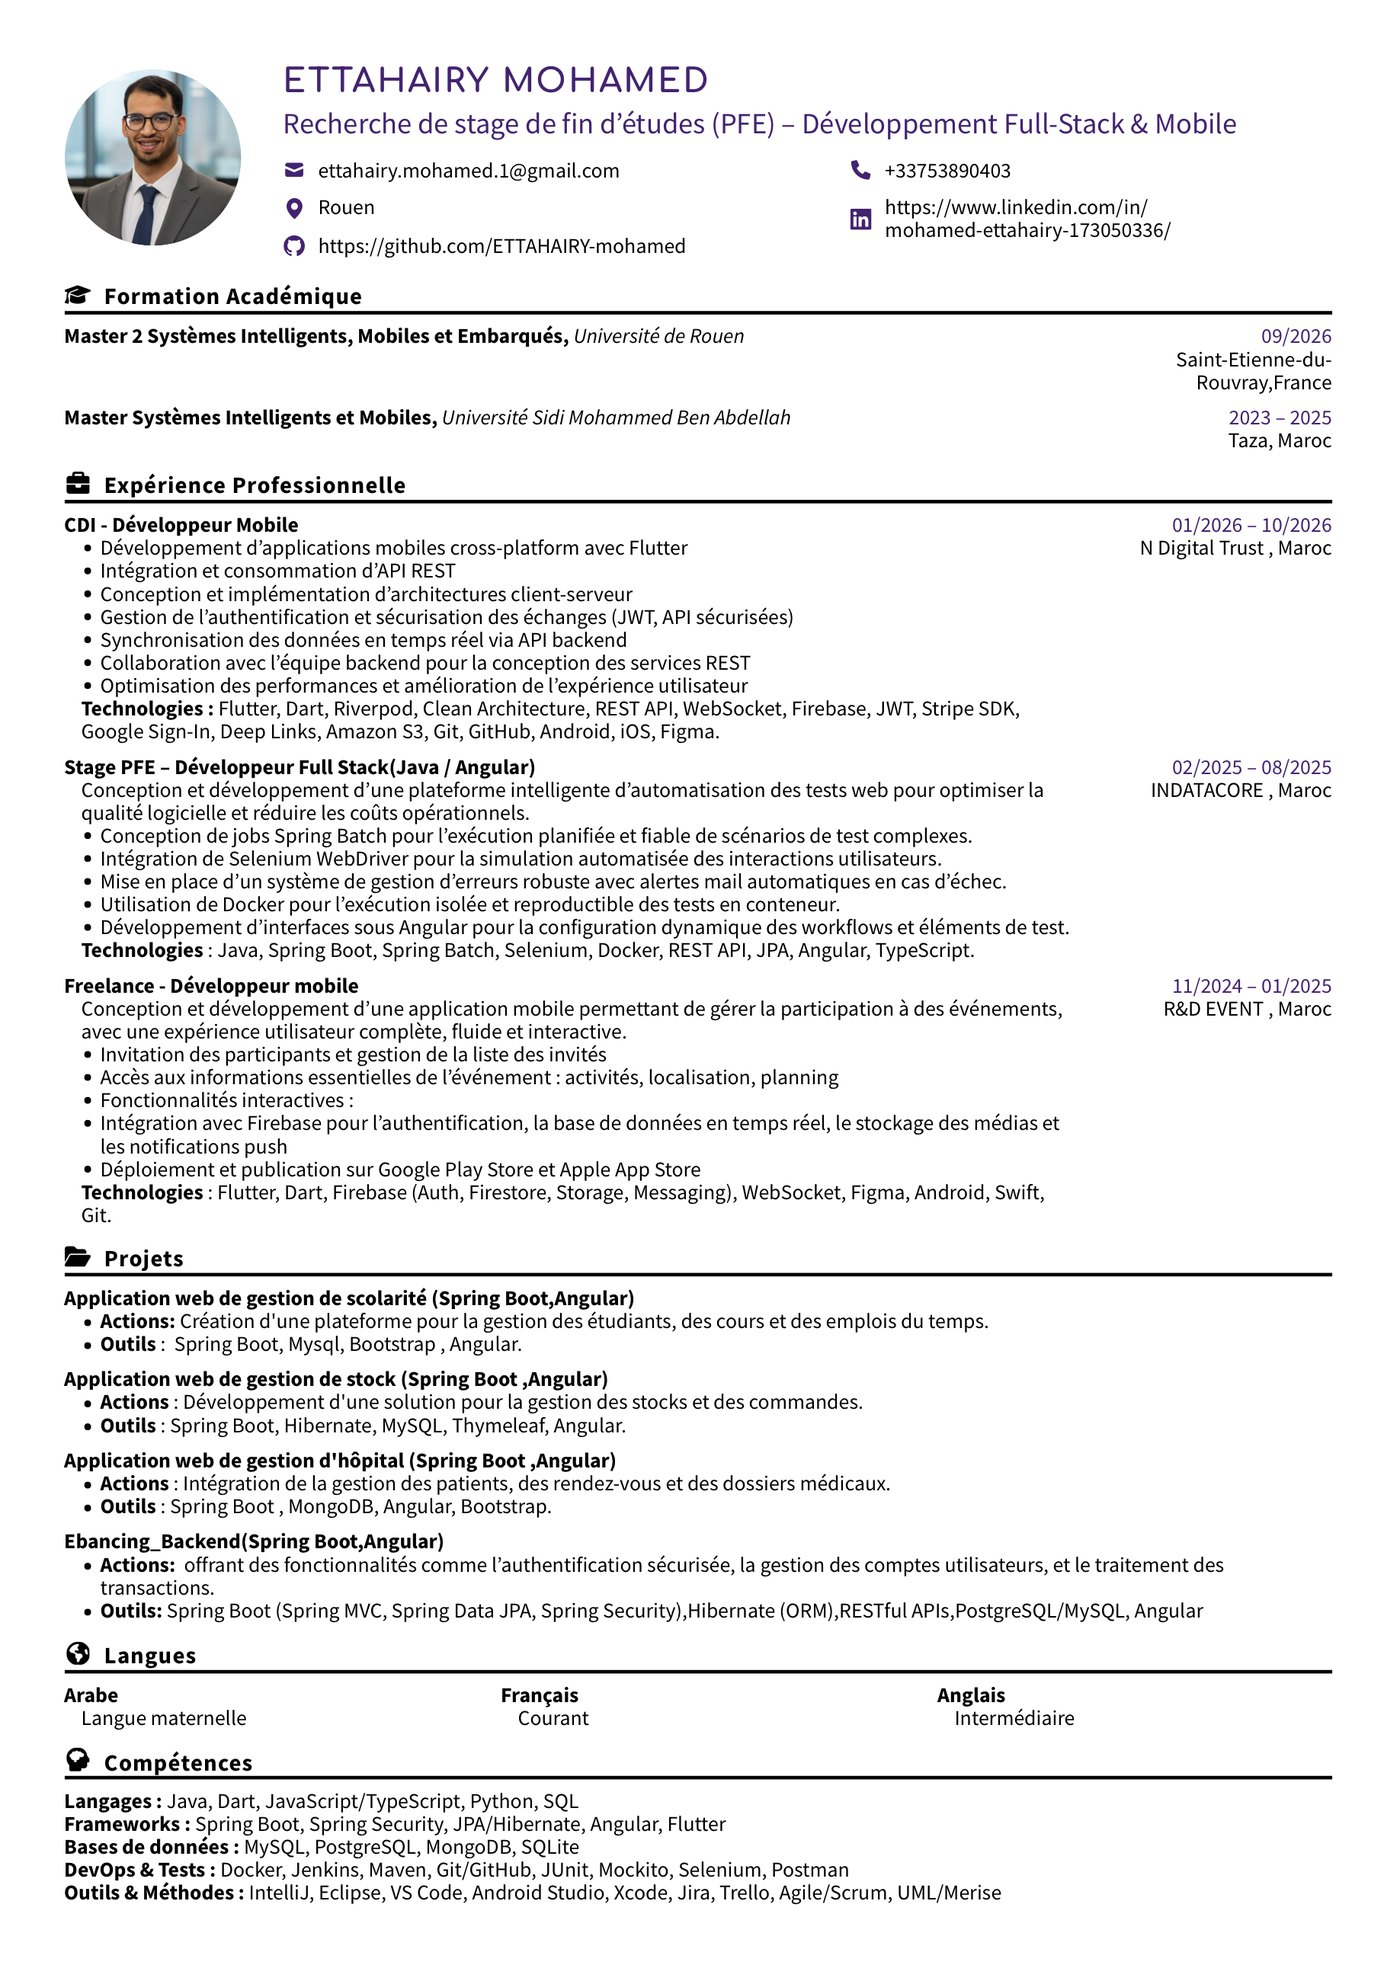
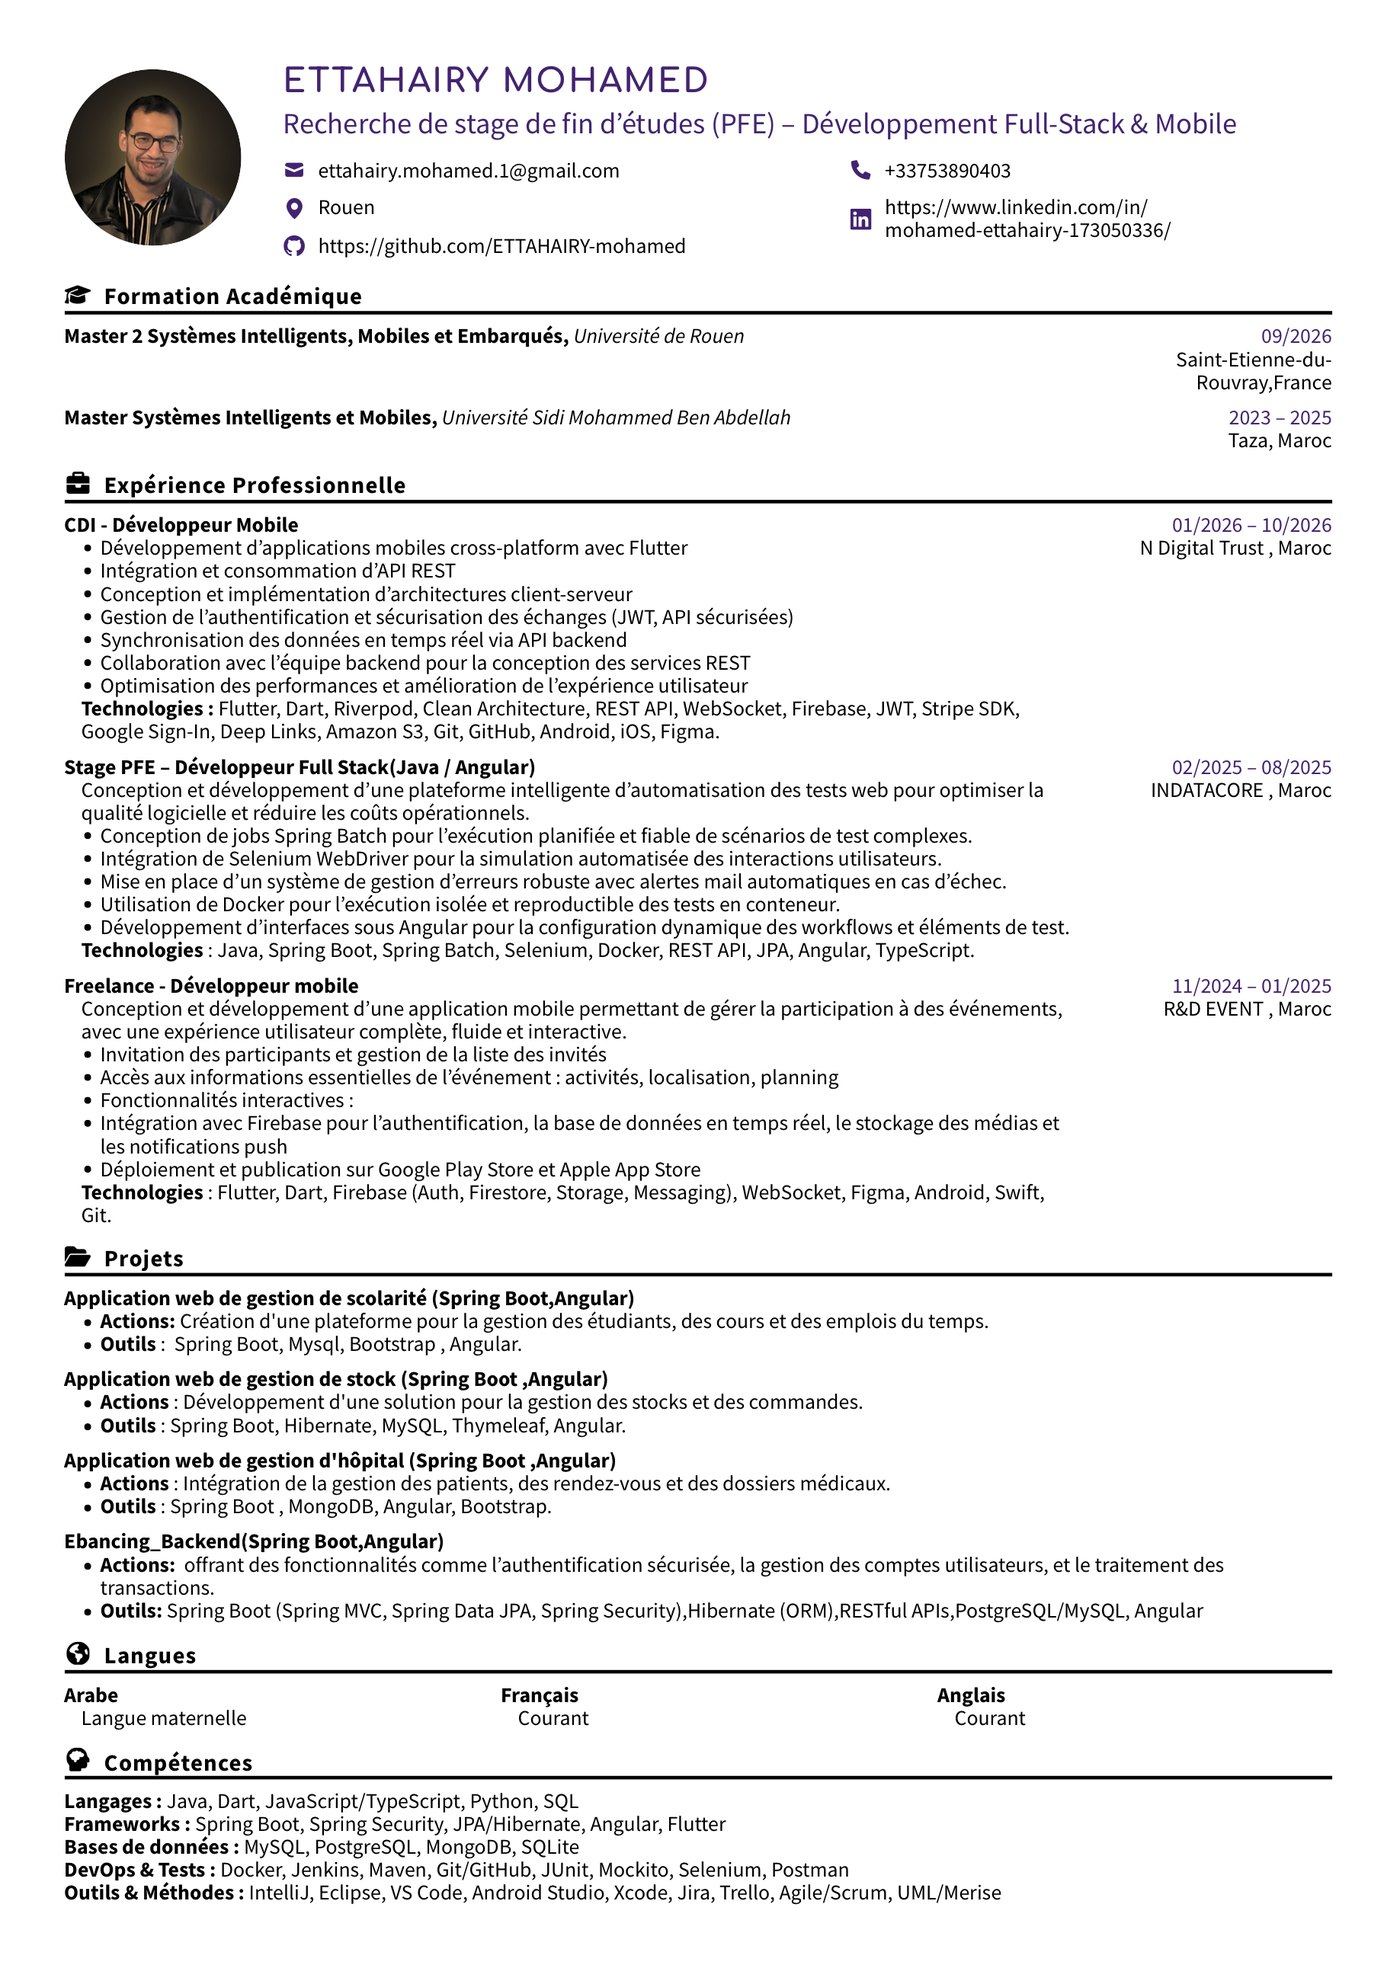
CV mis à jour (nouvelle photo, anglais courant)
- public/cv.pdf : nouvelle photo, niveau d'anglais « Courant »
  (les liens cliquables du PDF sont conservés)
- public/cv-preview.jpg : aperçu régénéré à partir du nouveau CV
- Compétences : Anglais passe de « Intermédiaire » à « Courant » (barre 90 %)

Changed region(s): [[0.0307, 0.0308, 0.1843, 0.1232], [0.6757, 0.8622, 0.7679, 0.893]]

diff --git a/src/data/content.ts b/src/data/content.ts
@@ -173,7 +173,7 @@ export const domains: Domain[] = [
 export const languages = [
   { name: "Arabe", level: "Langue maternelle", percentage: 100 },
   { name: "Français", level: "Courant", percentage: 90 },
-  { name: "Anglais", level: "Intermédiaire", percentage: 55 },
+  { name: "Anglais", level: "Courant", percentage: 90 },
 ] as const;
 
 export const interests = [
